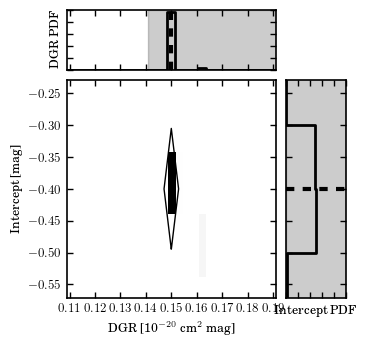
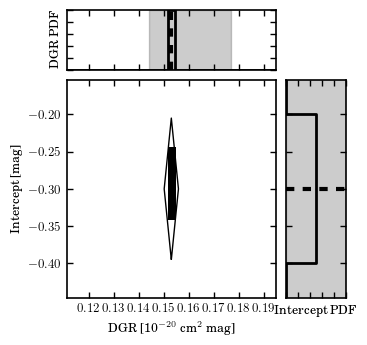
new post

diff --git a/images/2015-08-12/image_copy.py b/images/2015-08-12/image_copy.py
@@ -13,8 +13,8 @@ images = [
 '/d/bip3/ezbc/perseus/figures/diagnostics/perseus_lee12_binned_coarseres_fixedwidth_avthres_nh2_vs_nhi.png',
 '/d/bip3/ezbc/perseus/figures/diagnostics/maps/perseus_lee12_binned_coarseres_fixedwidth_avthres_mask_map.png',
 '/d/bip3/ezbc/perseus/figures/likelihood/perseus_lee12_binned_coarseres_fixedwidth_likelihood_di.png',
-'/d/bip3/ezbc/perseus/figures/diagnostics/perseus_lee12_binned_coarseres_fixedwidth_av_vs_nhi_masked.png',
-'/d/bip3/ezbc/perseus/figures/diagnostics/perseus_lee12_binned_coarseres_fixedwidth_nh2_vs_nhi.png',
+'/d/bip3/ezbc/perseus/figures/diagnostics/perseus_lee12_binned_coarseres_fixedwidth_av_vs_nhi*.png',
+'/d/bip3/ezbc/perseus/figures/diagnostics/perseus_lee12_binned_coarseres_fixedwidth_nh2_vs_nhi*png',
 '/d/bip3/ezbc/perseus/figures/diagnostics/perseus_lee12_binned_fineres_fixedwidth_av_vs_nhi*png',
 '/d/bip3/ezbc/perseus/figures/diagnostics/perseus_lee12_binned_fineres_fixedwidth_nh2_vs_nhi*png',
 '/d/bip3/ezbc/perseus/figures/diagnostics/maps/perseus_lee12_binned_coarseres_fixedwidth_mask_map.png',

diff --git a/_posts/2015-08-12-research-fixed-hi-widths-with-planck.md b/_posts/2015-08-12-research-fixed-hi-widths-with-planck.md
@@ -59,43 +59,6 @@ in Imara et al. (2012).
 
 ## Binning Errors
 
-### Lee+12 IRIS $$A_V$$, threshold masking
-
-We compare Lee+12 DGR by masking at an $$A_V$$ threhsold of 1.2 mag and perform
-the MLE calculation.
-
-Masking:
-
-***
-
-Perseus
-
-  <img src="/images/2015-08-12/perseus_lee12_binned_coarseres_fixedwidth_mask_map.png"
-      style="width: 100%">
-
-
-#### Figure 3
-
-Top: Original resolution masked $$A_V$$ map overlaid with mask contour, bottom:
-binned image, with pixels used to calculate the DGR and intercept in color, and
-masked pixels in gray.
-
-***
-
-The likelihoods are quite different from Lee et al. (2012) given an HI width of
-20 km/s.
-
-***
-
-<img src='/images/2015-08-12/perseus_lee12_binned_coarseres_fixedwidth_likelihood_di.png' style='width:50%'>
-
-#### Figure 2
-
-Likelihoods using the Lee+12 IRIS $$A_V$$ data, and masking at $$A_V$$ of 1.2
-mag. 
-
-***
-
 We should make sure the pixels used in the MLE calculation have reasonable
 errors and follow a linear trend. In [previous
 posts](/2015/08/07/research-threshold-and-intercepts-lee12data/#figure-5) I was
@@ -136,81 +99,18 @@ $$
 ***
 
 <img
-src="/images/2015-08-12/perseus_lee12_binned_fineres_fixedwidth_av_vs_nhi_masked.png"
-    style="float: left; width: 50%"/>
-<img
-src="/images/2015-08-12/perseus_lee12_binned_fineres_fixedwidth_av_vs_nhi.png"
-    style="float: left; width: 50%"/>
-<img
-src="/images/2015-08-12/perseus_lee12_binned_fineres_fixedwidth_nh2_vs_nhi.png"
-    style="width: 50%"/>
-
-#### Figure 6
-
-Left: masked $$A_V$$ vs. N(HI), right: N(H$$_2$$) vs. N(HI) for Perseus region.
-
-***
-
-### Lee+12 IRIS $$A_V$$, residual masking
->>>>>>> master
-
-We compare Lee+12 DGR by masking with the [residual
-masking](/2015/07/28/research-regions/#masking) technique and perform the MLE
-calculation. We find that the residual masking is necessary, as opposed to the
-threshold masking to reproduce the work done by Lee et al. (2012).
-
-Masking:
-
-***
-
-Perseus
-
-  <img src="/images/2015-08-12/perseus_lee12_binned_coarseres_fixedwidth_mask_map.png"
-      style="width: 100%">
-
-
-#### Figure 3
-
-Top: Original resolution masked $$A_V$$ map overlaid with mask contour, bottom:
-binned image, with pixels used to calculate the DGR and intercept in color, and
-masked pixels in gray.
-
-***
-
-The likelihoods show a DGR very similar to that of Lee et al. (2012).
-
-***
-
-<img src='/images/2015-08-12/perseus_lee12_binned_coarseres_fixedwidth_likelihood_di.png' style='width:50%'>
-
-#### Figure 2
-
-Likelihoods using the Lee+12 IRIS $$A_V$$ data, and masking with residuals.
-
-***
-
-We should make sure the pixels used in the MLE calculation have reasonable
-errors and follow a linear trend.
-
-The residual-masking approach reduces the scatter in the pixels used to fit
-$$A_V$$ vs. N(HI).
-
-***
-
-<img
 src="/images/2015-08-12/perseus_lee12_binned_coarseres_fixedwidth_av_vs_nhi_masked.png"
     style="float: left; width: 50%"/>
-
+<img
+src="/images/2015-08-12/perseus_lee12_binned_coarseres_fixedwidth_av_vs_nhi.png"
+    style="float: left; width: 50%"/>
 <img
 src="/images/2015-08-12/perseus_lee12_binned_coarseres_fixedwidth_nh2_vs_nhi.png"
     style="width: 50%"/>
 
-#### Figure 6
+#### Figure 2
 
 Left: masked $$A_V$$ vs. N(HI), right: N(H$$_2$$) vs. N(HI) for Perseus region.
 
 ***
-
-With an HI width similar to that of Lee et al. (2012), around 20 km/s for each
-cloud, we now get much more reasonable likelihood values.
 
